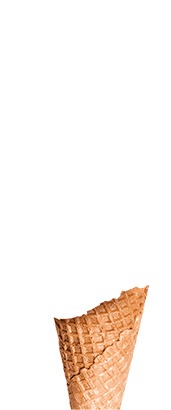
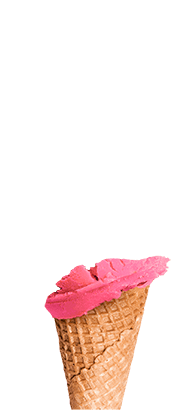
add second animation

diff --git a/src/sass/components/_hero.scss b/src/sass/components/_hero.scss
@@ -115,31 +115,70 @@
   position: relative;
   width: 171px;
   height: 410px;
-  // background: rgba(0, 0, 0, 1);
   margin-top: 92px;
-  // margin-left: 110px;
-  // margin-right: 20px;
   z-index: -1;
 
   & img {
     position: absolute;
     left: -300px;
     width: 100%;
-    // animation-name: fadeinIcecream;
-    // animation-duration: 3000ms;
-    transform: translateX(400px);
+    animation-name: fadeinIcecream;
+    animation-fill-mode: forwards;
+    animation-timing-function: ease-in-out;
   }
 
+  $animationSpeed: 1000ms;
+  $animationLayer: 10ms;
+
   & img:nth-child(1) {
-    transition: translateX 3000ms ease-in-out;
+    animation-duration: $animationSpeed;
+  }
+  & img:nth-child(2) {
+    animation-duration: $animationSpeed + $animationLayer * 2;
+  }
+  & img:nth-child(3) {
+    animation-duration: $animationSpeed + $animationLayer * 3;
+  }
+  & img:nth-child(4) {
+    animation-duration: $animationSpeed + $animationLayer * 4;
+  }
+  & img:nth-child(5) {
+    animation-duration: $animationSpeed + $animationLayer * 5;
+  }
+  & img:nth-child(6) {
+    animation-duration: $animationSpeed + $animationLayer * 6;
+  }
+  & img:nth-child(7) {
+    animation-duration: $animationSpeed + $animationLayer * 7;
+  }
+  & img:nth-child(8) {
+    opacity: 0;
+    animation: flowCream $animationSpeed 700ms ease-in-out forwards,
+      fadeinIcecream $animationSpeed forwards;
+  }
+  & img:nth-child(9) {
+    opacity: 0;
+    animation: flowCream $animationSpeed 1200ms ease-in-out forwards,
+      fadeinIcecream $animationSpeed forwards;
   }
 }
 
 @keyframes fadeinIcecream {
   0% {
-    transform: translateX(0px);
+    transform: translateX(0);
   }
   100% {
-    transform: translateX(400px);
+    transform: translateX(420px);
+  }
+}
+
+@keyframes flowCream {
+  0% {
+    opacity: 0;
+    transform: translateY(-100px);
+  }
+  100% {
+    opacity: 1;
+    transform: translateY(0);
   }
 }

diff --git a/src/partials/hero.html b/src/partials/hero.html
@@ -41,6 +41,7 @@
       <img src="./images/hero/06_scoop-mobile@1x.png" alt="scoop" />
       <img src="./images/hero/07_scoop-mobile@1x.png" alt="scoop" />
       <img src="./images/hero/08_cream-mobile@1x.png" alt="cream" />
+      <img src="./images/hero/09_cream-mobile@1x.png" alt="cream" />
     </div>
   </div>
 </section>
